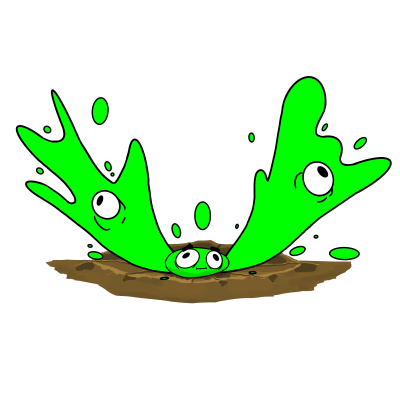
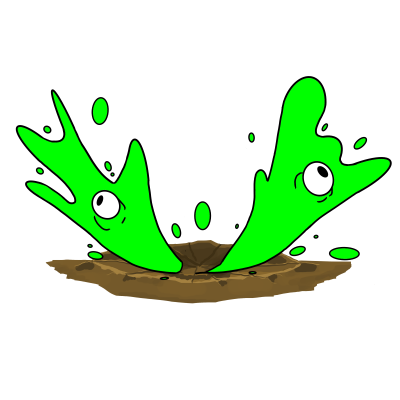
Proper meteor

Changed region(s): [[0.39, 0.6, 0.57, 0.72]]

diff --git a/DumbWaysToDie/Plugin.cs b/DumbWaysToDie/Plugin.cs
@@ -80,7 +80,7 @@ public class Plugin : BaseUnityPlugin
         AddDeathSpriteCreator(CauseOfDeath.Leashed);
         AddDeathSpriteCreator(CauseOfDeath.Macho);
         AddDeathSpriteCreator(CauseOfDeath.Meditating);
-        AddDeathSpriteCreator(CauseOfDeath.Meteored, BlendMode.Blend);
+        AddDeathSpriteCreator(CauseOfDeath.Meteored, BlendMode.Killer);
         AddDeathSpriteCreator(CauseOfDeath.Rocked, BlendMode.Victim);
         AddDeathSpriteCreator(CauseOfDeath.Rocking);
         AddDeathSpriteCreator(CauseOfDeath.Rolled, BlendMode.Blend);
@@ -431,6 +431,15 @@ public class Patch
                 if (go.ToString().Contains("invisibleHitbox"))
                 {
                     causeOfDeath = CauseOfDeath.Drilled;
+                }
+                else
+                {
+                    // This is a weird one. If the meteor lands sligthly beside
+                    // a bopl on the ground, it will die by the actual explosion
+                    // from the the meteor and not the meteor itself. This may
+                    // cause meteor to show up in some places it should not, I
+                    // dont know yet.
+                    causeOfDeath = CauseOfDeath.Meteored;
                 }
             }
             else
